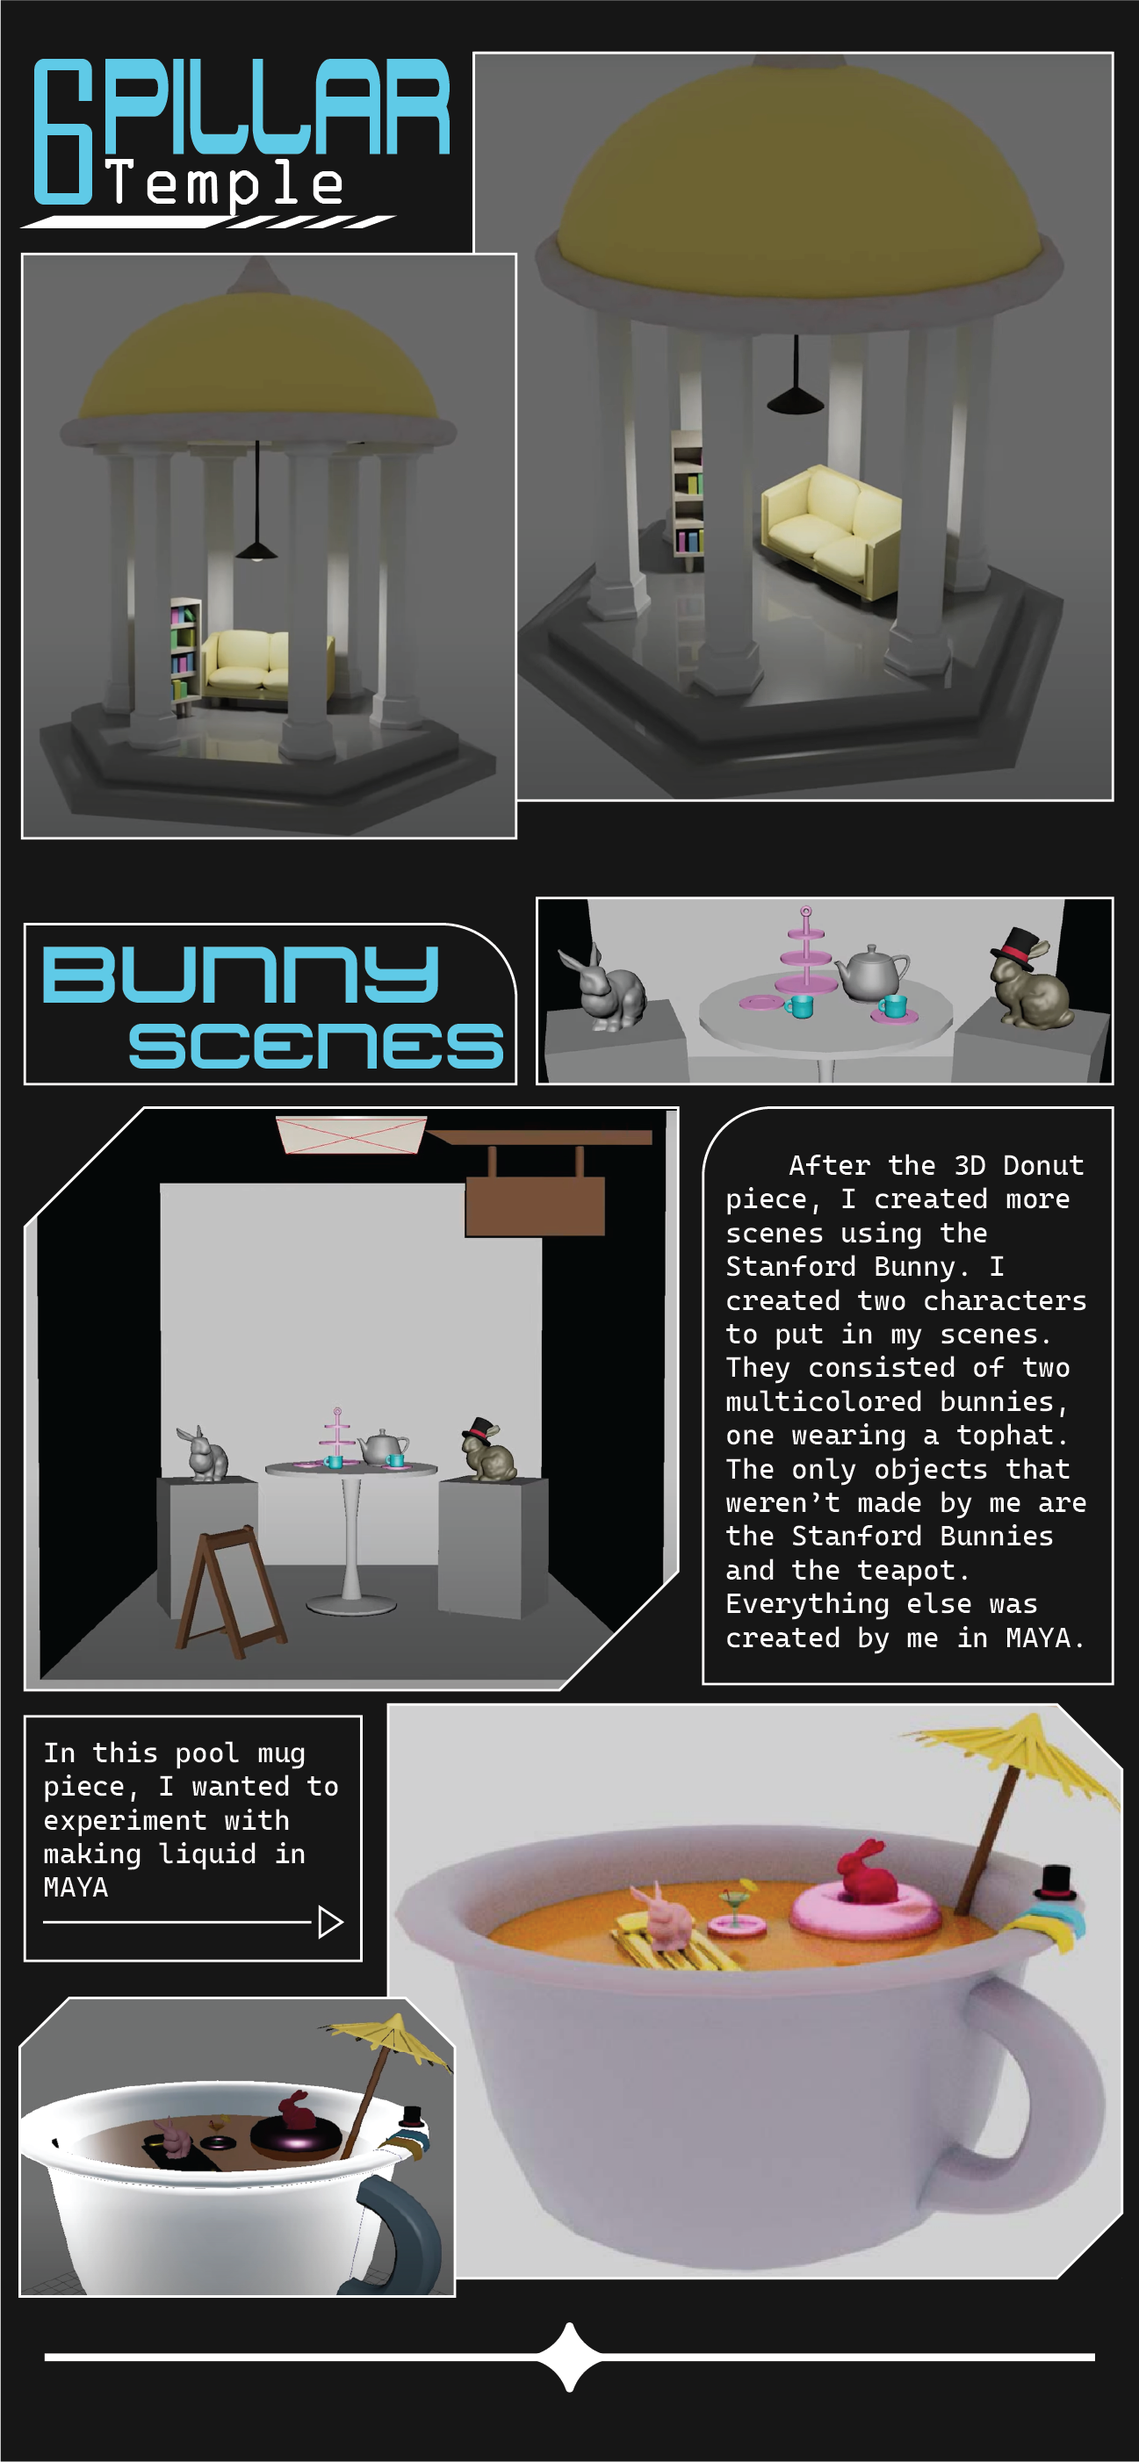
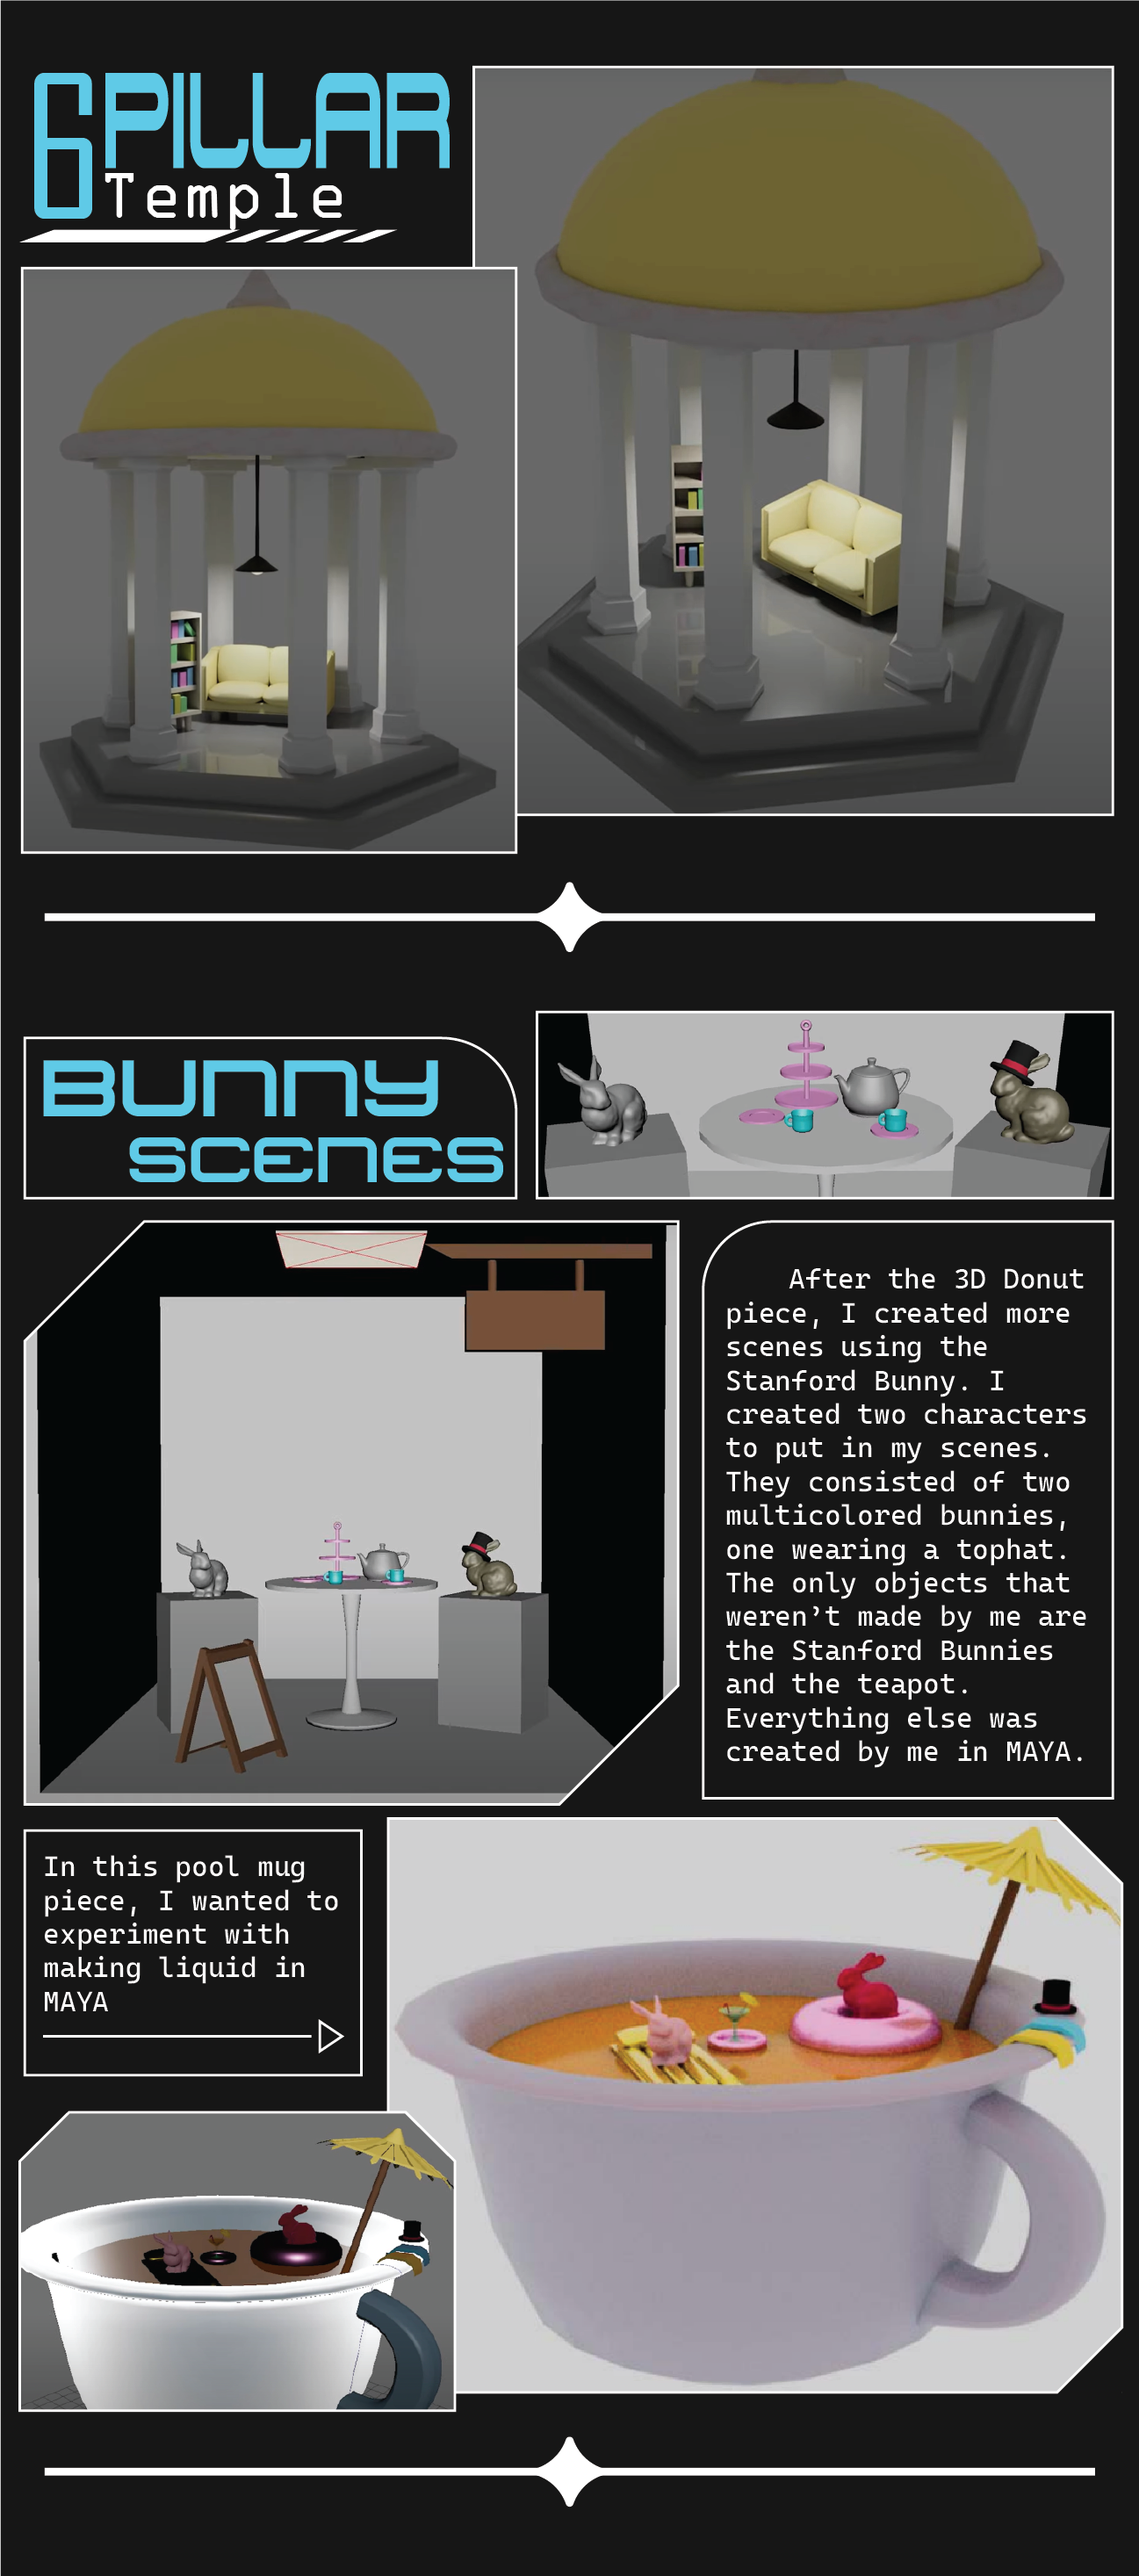
add

diff --git a/3d.html b/3d.html
@@ -81,6 +81,12 @@
         <img src="images/3D-images/bg-atat.png" alt="bg-atat" class="three-d-image">
     </div>
 
+
+    <div>
+        <img src="images/3D-images/bg-temple.png" alt="bg-temple" class="three-d-image">
+    </div>
+
+
 <!--DIVIDER --> 
     <div class="card col-12" 
     style="height:30px; background-image: url(https://dividers.crd.co/assets/images/gallery10/8a8a2081.gif?v=05d33f91); border: none;  background-color:transparent">
